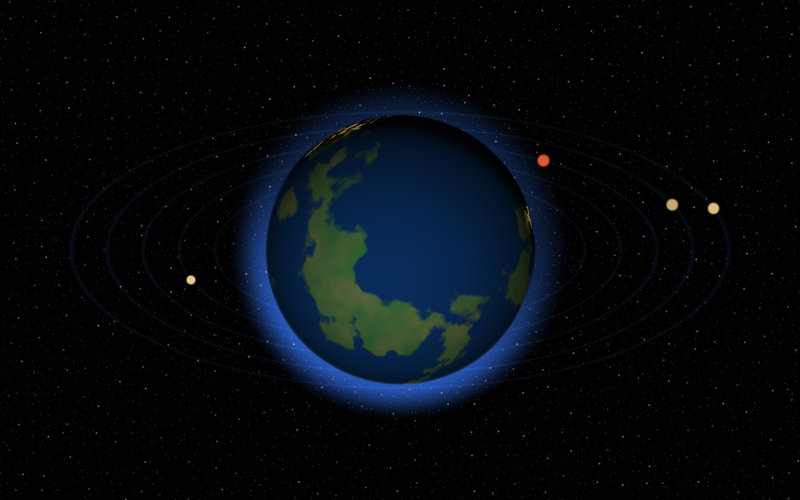
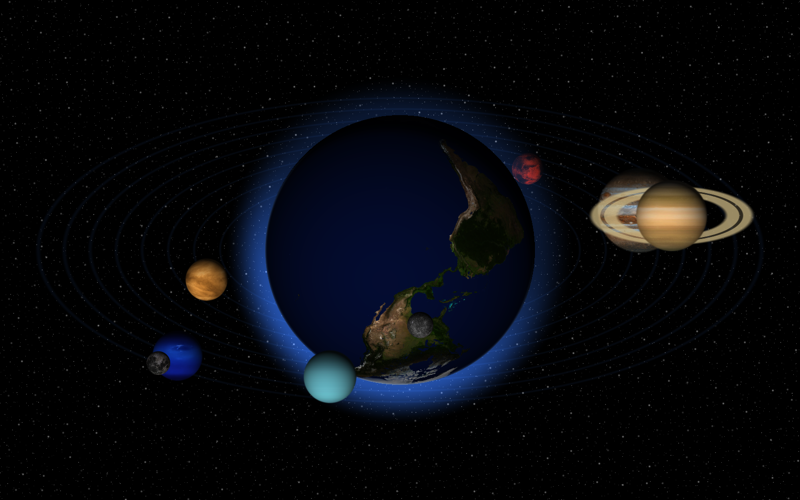
Universe: real Earth + planet textures (CC BY 4.0)
- Bundle Earth day/night maps + 8 planet textures (Solar System Scope, CC BY 4.0)
- PlanetTextures loads Earth as 2D maps and planets into a 2D texture array
- Universe shader samples real textures on each sphere with the live day/night
  terminator; Saturn rings; behind/front planet z-ordering; procedural fallback
- README attribution added

diff --git a/Shared/PlanetTextures.swift b/Shared/PlanetTextures.swift
@@ -1,0 +1,74 @@
+//  PlanetTextures.swift — loads real Earth + planet maps for the Universe effect.
+//  Earth day/night are 2D textures; the 8 planets are packed into a 2D array
+//  (same 1024×512 size) so the shader can sample any planet by layer index.
+
+import Metal
+import MetalKit
+
+final class PlanetTextures {
+    static let order = ["mercury", "venus", "mars", "jupiter", "saturn", "uranus", "neptune", "moon"]
+
+    let earthDay: MTLTexture
+    let earthNight: MTLTexture
+    let planets: MTLTexture          // texture2d_array, one layer per `order`
+    let loaded: Bool
+
+    init(device: MTLDevice, queue: MTLCommandQueue) {
+        let loader = MTKTextureLoader(device: device)
+        let bundle = Bundle(for: PlanetTextures.self)
+        let opts: [MTKTextureLoader.Option: Any] = [
+            .SRGB: true,
+            .origin: MTKTextureLoader.Origin.topLeft.rawValue,
+            .textureUsage: NSNumber(value: MTLTextureUsage.shaderRead.rawValue),
+            .textureStorageMode: NSNumber(value: MTLStorageMode.private.rawValue)
+        ]
+        func load2D(_ name: String) -> MTLTexture? {
+            guard let url = bundle.url(forResource: name, withExtension: "jpg") else { return nil }
+            return try? loader.newTexture(URL: url, options: opts)
+        }
+        func dummy2D() -> MTLTexture {
+            let d = MTLTextureDescriptor.texture2DDescriptor(pixelFormat: .rgba8Unorm, width: 1, height: 1, mipmapped: false)
+            d.usage = .shaderRead
+            return device.makeTexture(descriptor: d)!
+        }
+
+        let day = load2D("earth_day"), night = load2D("earth_night")
+        earthDay = day ?? dummy2D()
+        earthNight = night ?? dummy2D()
+
+        let layers = PlanetTextures.order.compactMap { load2D($0) }
+        var array: MTLTexture?
+        if layers.count == PlanetTextures.order.count, let first = layers.first,
+           let cmd = queue.makeCommandBuffer(), let blit = cmd.makeBlitCommandEncoder() {
+            let d = MTLTextureDescriptor()
+            d.textureType = .type2DArray
+            d.pixelFormat = first.pixelFormat
+            d.width = first.width; d.height = first.height
+            d.arrayLength = layers.count
+            d.usage = .shaderRead
+            d.storageMode = .private
+            if let arr = device.makeTexture(descriptor: d) {
+                for (i, t) in layers.enumerated() where t.width == first.width && t.height == first.height {
+                    blit.copy(from: t, sourceSlice: 0, sourceLevel: 0,
+                              sourceOrigin: MTLOrigin(x: 0, y: 0, z: 0),
+                              sourceSize: MTLSize(width: t.width, height: t.height, depth: 1),
+                              to: arr, destinationSlice: i, destinationLevel: 0,
+                              destinationOrigin: MTLOrigin(x: 0, y: 0, z: 0))
+                }
+                array = arr
+            }
+            blit.endEncoding(); cmd.commit(); cmd.waitUntilCompleted()
+        }
+
+        if let array = array {
+            planets = array
+            loaded = (day != nil && night != nil)
+        } else {
+            let d = MTLTextureDescriptor()
+            d.textureType = .type2DArray; d.pixelFormat = .rgba8Unorm
+            d.width = 1; d.height = 1; d.arrayLength = 1; d.usage = .shaderRead
+            planets = device.makeTexture(descriptor: d)!
+            loaded = false
+        }
+    }
+}

diff --git a/Shared/MetalRenderer.swift b/Shared/MetalRenderer.swift
@@ -12,6 +12,7 @@ final class MetalRenderer: NSObject, MTKViewDelegate {
     private let sampler: MTLSamplerState
     private let glyphs: MTLTexture?
     private let dummy: MTLTexture
+    private let planetTex: PlanetTextures
 
     private var texA: MTLTexture?
     private var texB: MTLTexture?
@@ -71,6 +72,7 @@ final class MetalRenderer: NSObject, MTKViewDelegate {
         sampler = device.makeSamplerState(descriptor: sd)!
 
         glyphs = GlyphAtlas.make(device: device)
+        planetTex = PlanetTextures(device: device, queue: queue)
 
         let dd = MTLTextureDescriptor.texture2DDescriptor(pixelFormat: pixelFormat, width: 1, height: 1, mipmapped: false)
         dd.usage = [.shaderRead, .renderTarget]
@@ -215,6 +217,9 @@ final class MetalRenderer: NSObject, MTKViewDelegate {
             enc.setFragmentBytes(&u, length: MemoryLayout<FXUniforms>.stride, index: 0)
             enc.setFragmentTexture(fragInput, index: 0)
             enc.setFragmentTexture(glyphs ?? dummy, index: 1)
+            enc.setFragmentTexture(planetTex.earthDay, index: 2)
+            enc.setFragmentTexture(planetTex.earthNight, index: 3)
+            enc.setFragmentTexture(planetTex.planets, index: 4)
             enc.setFragmentSamplerState(sampler, index: 0)
             enc.drawPrimitives(type: .triangle, vertexStart: 0, vertexCount: 3)
             enc.endEncoding()